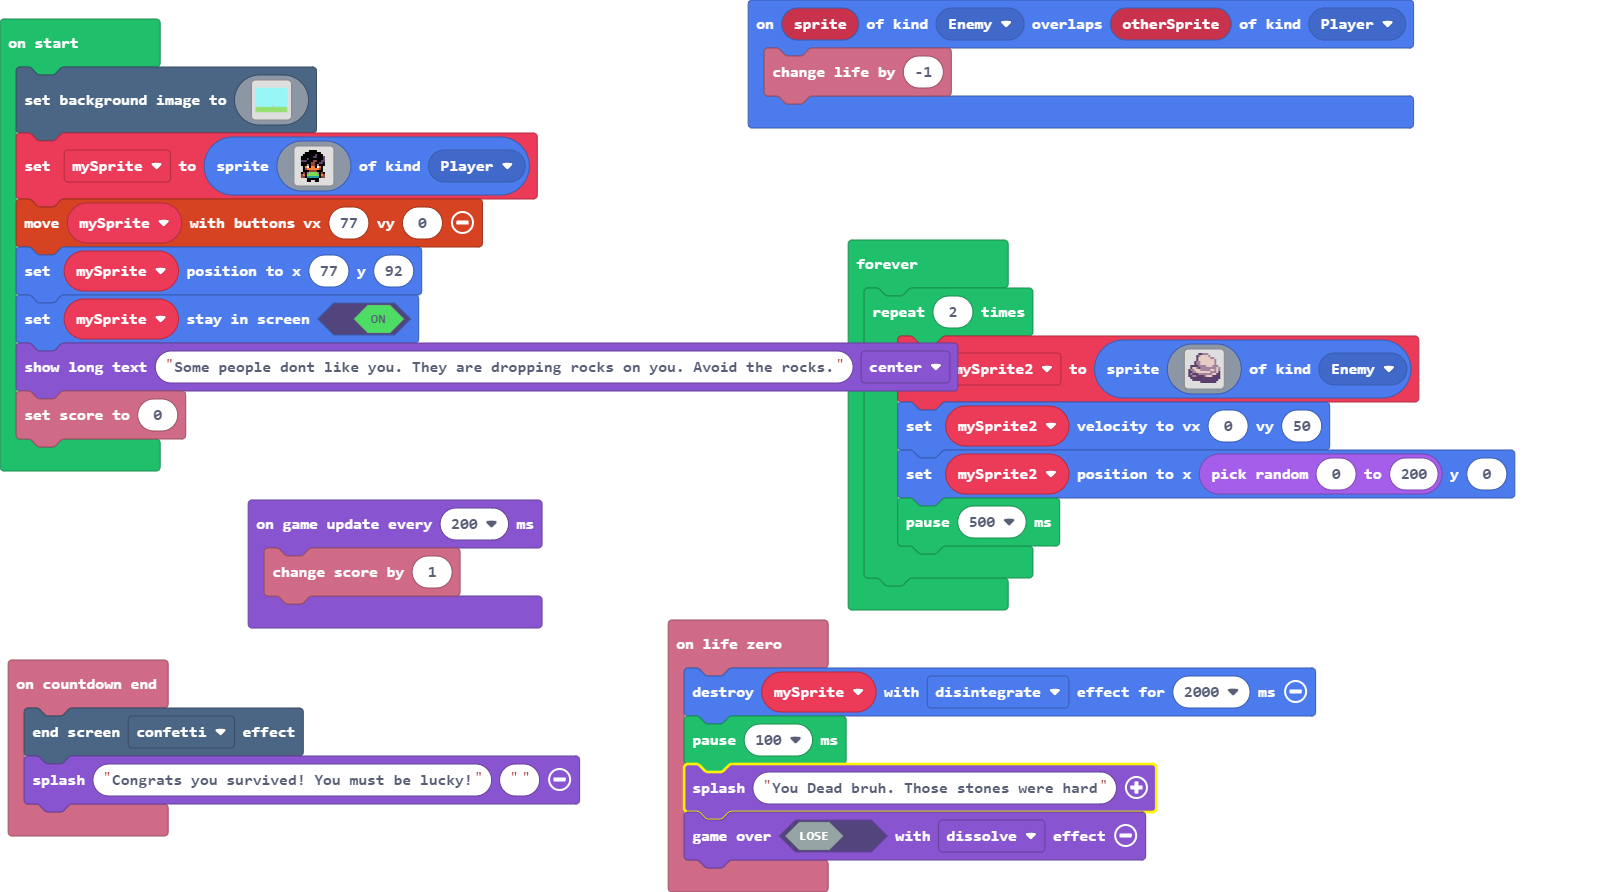
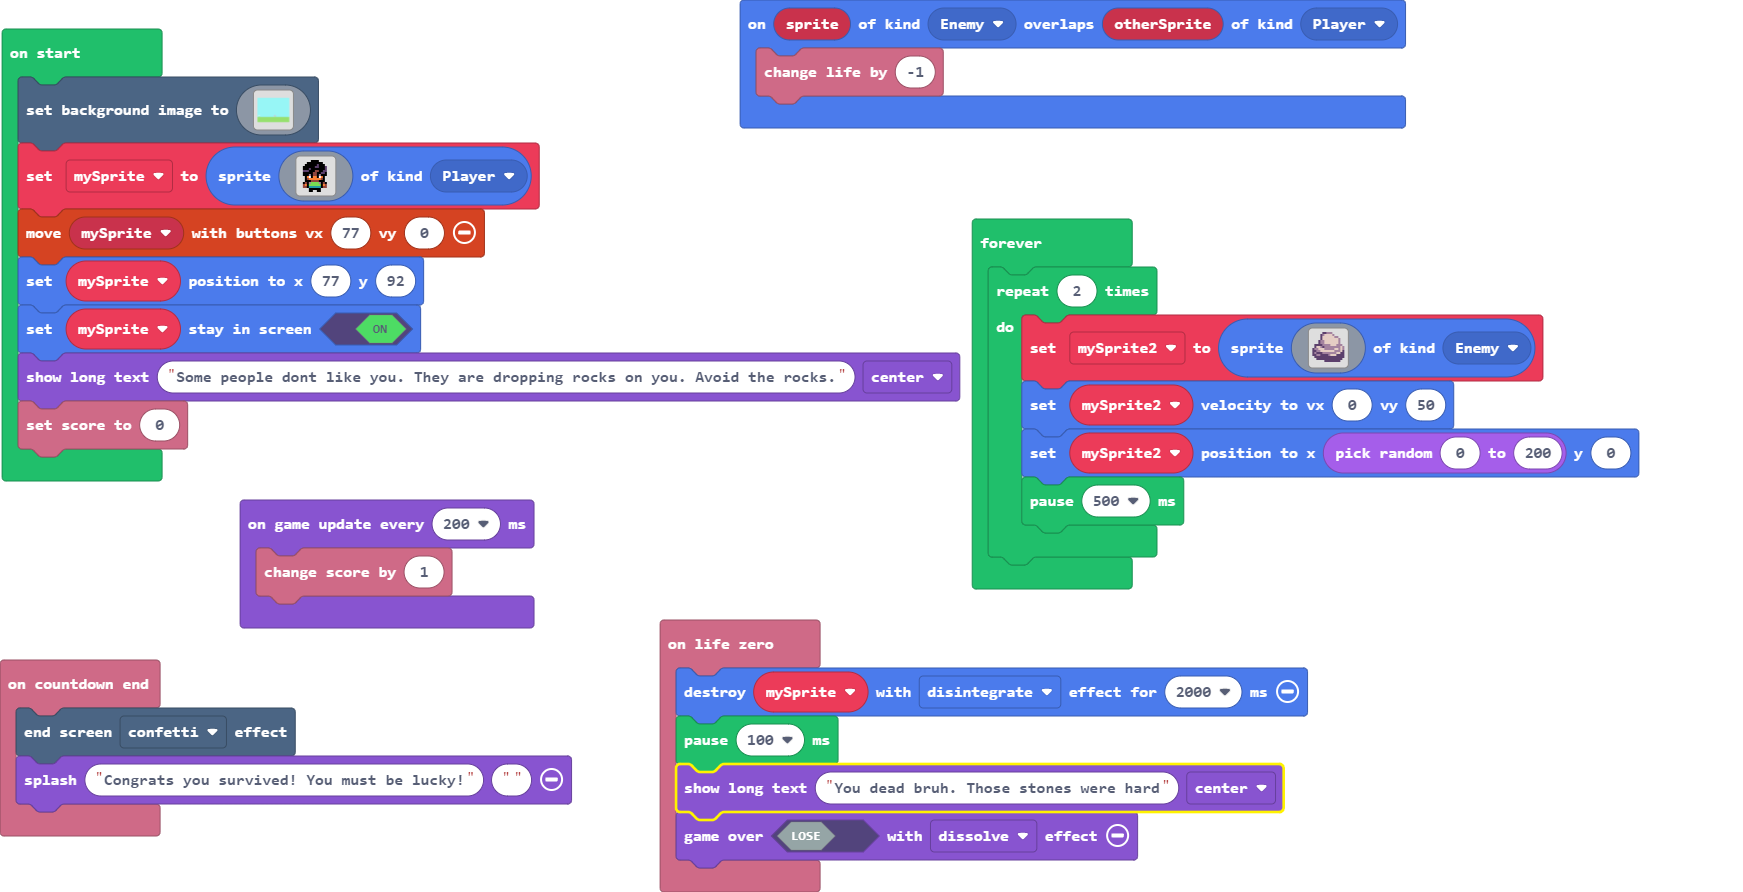
Update main.blocks, main.ts

diff --git a/main.ts b/main.ts
@@ -8,7 +8,7 @@ sprites.onOverlap(SpriteKind.Enemy, SpriteKind.Player, function (sprite, otherSp
 info.onLifeZero(function () {
     mySprite.destroy(effects.disintegrate, 2000)
     pause(100)
-    game.splash("You Dead bruh. Those stones were hard")
+    game.showLongText("You dead bruh. Those stones were hard", DialogLayout.Center)
     game.over(false, effects.dissolve)
 })
 let mySprite2: Sprite = null
